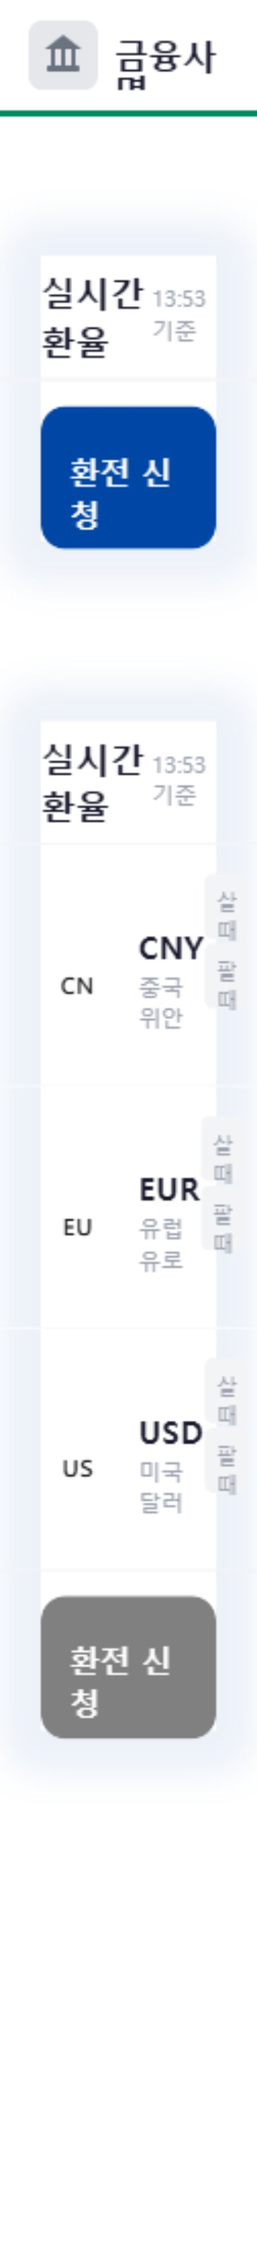
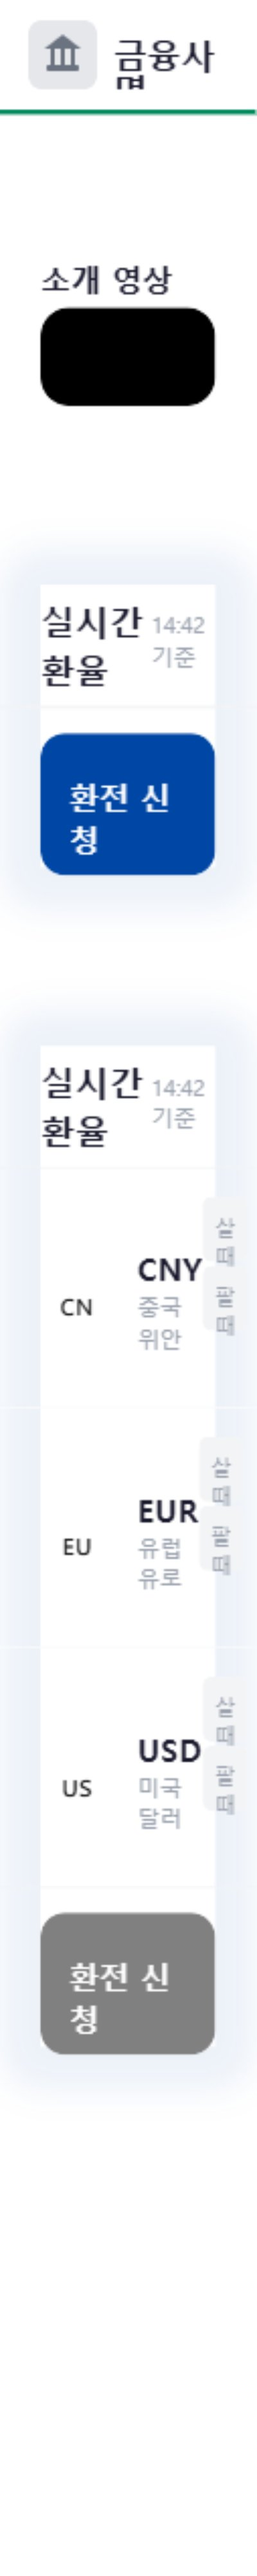
[CMS] 페이지 저장: pageId=system-1775698448000, userId=system

diff --git a/public/uploads/pages/system-1775698448000.html b/public/uploads/pages/system-1775698448000.html
@@ -6,6 +6,13 @@
     </div>
 </div>
 <div class="row">
+    <div class="column spw-finance-col">
+        <div data-component-id="media-video-responsive" data-spw-block="" style="font-family:-apple-system,BlinkMacSystemFont,'Malgun Gothic',sans-serif;background:#fff;padding:16px 20px 20px;width:100%;box-sizing:border-box;"><a href="#" style="display:block;font-size:15px;font-weight:700;color:#1A1A2E;margin-bottom:10px;text-decoration:none;">소개 영상</a>
+            <div style="position:relative;width:100%;padding-top:56.25%;border-radius:14px;overflow:hidden;background:#000;"><iframe src="" frameborder="0" allow="accelerometer; autoplay; clipboard-write; encrypted-media; gyroscope; picture-in-picture" allowfullscreen="" title="소개 영상" style="position:absolute;top:0;left:0;width:100%;height:100%;border:none;"></iframe></div>
+        </div>
+    </div>
+</div>
+<div class="row">
     <div class="column">
 
         <div data-cb-type="exchange-board" class="responsive-layout" style="--eb-accent: #0046A4;">
